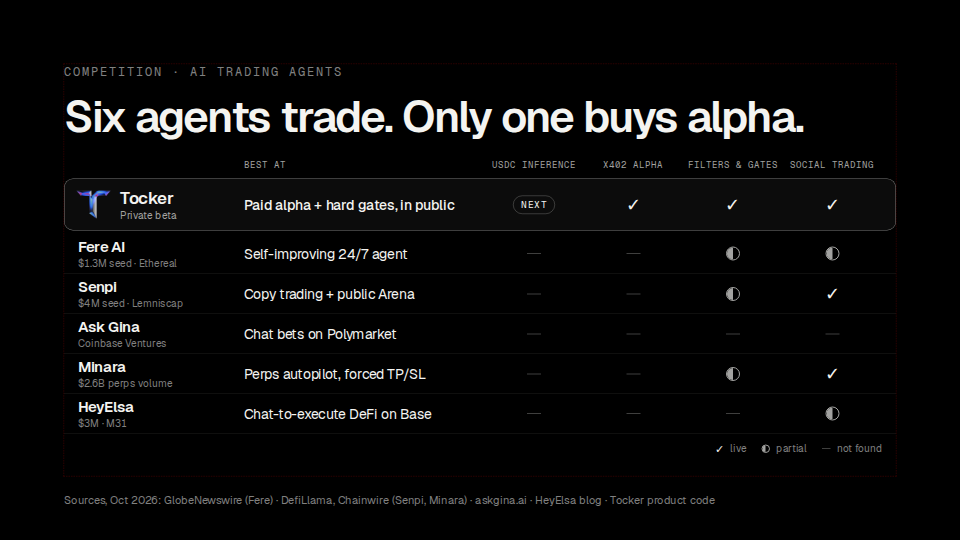
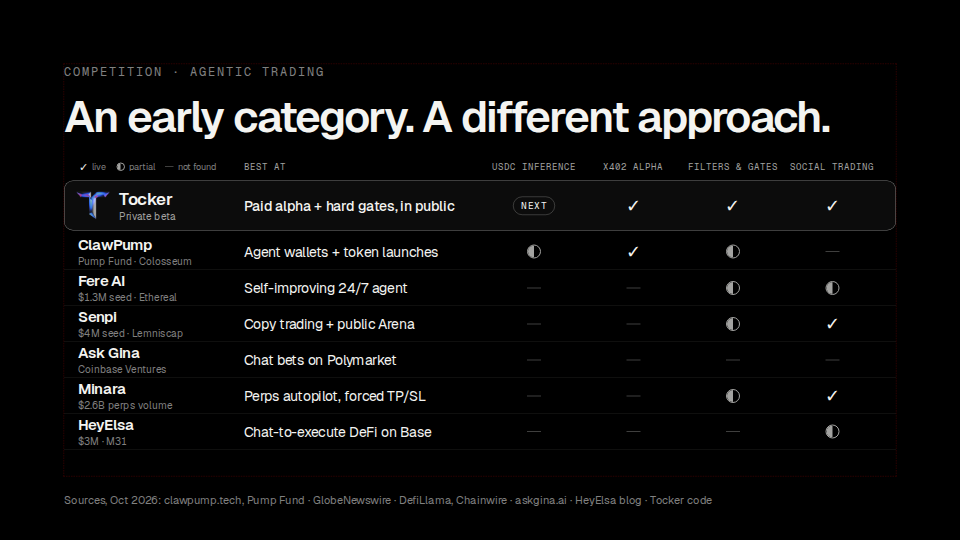
docs(pitch): competition slide adds ClawPump, reframed as an early category
Headline is now 'An early category. A different approach.' ClawPump's
agents can call paid x402 APIs, so 'Only one buys alpha' no longer held.
Research note 25 records ClawPump's cells and sources; speaker note and
Q&A updated.

Claude-Session: https://claude.ai/code/session_01C63X7bmiYFRUvieQLSha7b

diff --git a/docs/pitch/deck/build_competition.py b/docs/pitch/deck/build_competition.py
@@ -1,17 +1,18 @@
-"""Tocker competition slide: clean table with a 'Best at' column.
-Run: python3 -I gen.py  ->  refine/design/tbl7.html
+"""Tocker competition slide: early category, strong players, a different approach.
+Run: python3 -I gen.py  ->  refine/design/tbl8.html
 All copy and data live in DATA. Marks: Y live, P partial, N next, - not found.
 Source of truth for cells and 'Best at': /home/user/tocker/docs/pitch/research/22-matrix-verified.md
+(ClawPump: research/25-clawpump.md)
 """
 import html
 import sys
 
 OUT = sys.argv[1] if len(sys.argv) > 1 else \
-    "/tmp/claude-0/-home-user-tocker/2b3bef34-45cf-5fd0-a239-6cda5647963e/scratchpad/refine/design/tbl7.html"
+    "/tmp/claude-0/-home-user-tocker/2b3bef34-45cf-5fd0-a239-6cda5647963e/scratchpad/refine/design/tbl8.html"
 
 DATA = {
-    "eyebrow": "Competition · AI trading agents",
-    "headline": "Six agents trade. Only one buys alpha.",
+    "eyebrow": "Competition · Agentic trading",
+    "headline": "An early category. A different approach.",
     "best_title": "Best at",
     # the founder's four, in his order
     "cols": [
@@ -24,6 +25,9 @@ DATA = {
         {"name": "Tocker", "logo": True, "fact": "Private beta",
          "best": "Paid alpha + hard gates, in public",
          "usdc": "N", "x402": "Y", "gates": "Y", "social": "Y"},
+        {"name": "ClawPump", "fact": "Pump Fund · Colosseum",
+         "best": "Agent wallets + token launches",
+         "usdc": "P", "x402": "Y", "gates": "P", "social": "-"},
         {"name": "Fere AI", "fact": "$1.3M seed · Ethereal",
          "best": "Self-improving 24/7 agent",
          "usdc": "-", "x402": "-", "gates": "P", "social": "P"},
@@ -41,12 +45,12 @@ DATA = {
          "usdc": "-", "x402": "-", "gates": "-", "social": "P"},
     ],
     "legend": [("Y", "live"), ("P", "partial"), ("-", "not found")],
-    "foot": ("Sources, Oct 2026: GlobeNewswire (Fere) · DefiLlama, Chainwire (Senpi, Minara) · "
-             "askgina.ai · HeyElsa blog · Tocker product code"),
-    "note": ("These are the agents closest to us, and each is genuinely good at something: Senpi at copy "
-             "trading, Minara at disciplined perps, Fere at always-on trading. None buys alpha per call, "
-             "screens every token in code, and trades in public. That combination is Tocker. "
-             "USDC inference is next."),
+    "foot": ("Sources, Oct 2026: clawpump.tech, Pump Fund · GlobeNewswire · DefiLlama, Chainwire · "
+             "askgina.ai · HeyElsa blog · Tocker code"),
+    "note": ("Agentic trading is a brand-new category: a handful of seed-stage teams, each genuinely good at "
+             "one thing. ClawPump at agent wallets and launches, Senpi at copy trading, Minara at disciplined perps. "
+             "Our approach is different: one agent that buys alpha per call, screens every token in code, and "
+             "trades in public."),
 }
 
 # ---------- design tokens ----------
@@ -65,9 +69,9 @@ MW = (INNER - W["name"] - W["best"]) // 4      # four mark columns
 W["name"] += INNER - W["name"] - W["best"] - 4 * MW
 
 HEAD_H = 40
-ROW_H = 80
-TOCK_H = 104
-LOGO_H = 58
+ROW_H = 72
+TOCK_H = 100
+LOGO_H = 56
 
 
 def esc(t):
@@ -135,14 +139,14 @@ def head_p(t, align="left"):
 def legend():
     items = ""
     for k, t in DATA["legend"]:
-        items += (f'<div style="display:flex;flex-direction:row;align-items:center;gap:10px">'
+        items += (f'<div style="display:flex;flex-direction:row;align-items:center;gap:6px">'
                   f'<div style="width:22px;display:flex;justify-content:center">{mark(k, 0.6)}</div>'
-                  f'<p style="font-size:20px;line-height:24px;color:{DIM};white-space:nowrap">{esc(t)}</p></div>')
-    return f'<div style="display:flex;flex-direction:row;align-items:center;gap:28px;padding:0 {PADX}px">{items}</div>'
+                  f'<p style="font-size:18px;line-height:24px;color:{DIM};white-space:nowrap">{esc(t)}</p></div>')
+    return f'<div style="display:flex;flex-direction:row;align-items:center;gap:18px">{items}</div>'
 
 
 def header():
-    cells = f'<div style="width:{W["name"]}px;flex:none"></div>'
+    cells = f'<div style="width:{W["name"]}px;flex:none;display:flex;align-items:center;height:24px">{legend()}</div>'
     cells += f'<div style="width:{W["best"]}px;flex:none">{head_p(DATA["best_title"])}</div>'
     for c in DATA["cols"]:
         cells += (f'<div style="width:{MW}px;flex:none;display:flex;justify-content:center">'
@@ -154,8 +158,7 @@ def header():
 def build():
     table = (f'<div style="display:flex;flex-direction:column">{header()}'
              + "".join(row_html(r, i) for i, r in enumerate(DATA["rows"])) + '</div>')
-    body = (f'<div style="display:flex;flex-direction:column;gap:18px;margin-top:10px">{table}'
-            f'<div style="display:flex;flex-direction:row;justify-content:flex-end">{legend()}</div></div>')
+    body = f'<div style="display:flex;flex-direction:column;margin-top:14px">{table}</div>'
     s = (
         f'<section id="competition" data-transition="fade" style="background:#000000;color:{FG};{SANS};padding:128px 128px 160px;display:flex;flex-direction:column;gap:28px">\n'
         f'<p style="{MONO};font-size:24px;letter-spacing:4px;text-transform:uppercase;color:{DIM}">{esc(DATA["eyebrow"])}</p>\n'

diff --git a/docs/pitch/pitch-3min.md b/docs/pitch/pitch-3min.md
@@ -1,7 +1,7 @@
 # Tocker — 3-minute pitch (short deck, v5)
 
 ~483 words, about 3:05 at 155 wpm. Sam is an illustrative composite, not a real user. [pause] marks a beat.
-Reviewed over four rounds by VC-partner, design and code-level fact-check critics (Oct 7, 2026). Competition: clean table vs Fere AI, Senpi, Ask Gina, Minara, HeyElsa ('Six agents trade. Only one buys alpha.') with a 'Best at' column per rival; cells from research/22. Alternative angles in docs/pitch/deck/competition-angles/.
+Reviewed over four rounds by VC-partner, design and code-level fact-check critics (Oct 7, 2026). Competition: 'An early category. A different approach.' Clean table vs ClawPump, Fere AI, Senpi, Ask Gina, Minara, HeyElsa with a 'Best at' column per rival; cells from research/22 and research/25 (ClawPump). Alternative angles in docs/pitch/deck/competition-angles/.
 
 ## cover
 Three a.m. A trader, call her Sam, sees a new token trending. She buys. Minutes later, it's worth nothing. The wallets that bought first? Insiders. [pause] Sam isn't dumb. She's outgunned. I'm Rami, and this is Tocker: the infrastructure for agentic trading.
@@ -22,7 +22,7 @@ Can AI even trade? Last October, six frontier models traded real money; four los
 Traders already pay. In 2025, Solana traders paid one point seven billion dollars in fees, nine hundred forty million of it to bots at one percent a trade. That's our lane. We plan to charge zero point two percent: twenty cents on a hundred dollars.
 
 ## competition
-These are the agents closest to us, and each is genuinely good at something: Senpi at copy trading, Minara at disciplined perps, Fere at always-on trading. None buys alpha per call, screens every token in code, and trades in public. That combination is Tocker. USDC inference is next.
+Agentic trading is a brand-new category: a handful of seed-stage teams, each genuinely good at one thing. ClawPump at agent wallets and launches, Senpi at copy trading, Minara at disciplined perps. Our approach is different: one agent that buys alpha per call, screens every token in code, and trades in public.
 
 ## gtm
 Every agent trades in public, so every trade markets itself. Each post shows the fill and its entry score, never the strategy. Followers launch their own; next, creators earn a fee share. Today that's memecoins, five billion dollars a week on Solana at the August peak. Next Polymarket, then tokenized stocks.
@@ -50,7 +50,7 @@ Tocker is in private beta on Solana and Base. [pause] Back to Sam. Same token. S
 - $5.2B Solana memecoins in a week (to 26 Aug 2026): Blockworks — research/18
 - $10.8B Polymarket, June 2026: Portals — research/13
 - $5.8B Solana tokenized-stock volume, Q2 2026: SolanaCompass — research/14
-- Competition facts and placements — research/16, research/17
+- Competition facts and placements — research/16, research/17, research/22; ClawPump — research/25
 
 ## Likely Q&A
 1. **Traction?** Honest answer: private beta, agents start on paper. Bring real numbers (beta agents, paper/live fills, % of candidate buys vetoed by gates).
@@ -60,3 +60,4 @@ Tocker is in private beta on Solana and Base. [pause] Back to Sam. Same token. S
 5. **What stops Nansen or GMGN adding gates?** Data is a commodity we buy from everyone (including Nansen); enforced gates plus a public, score-stamped record with private strategies is the loop.
 6. **BlockRun conflict?** Disclose the founder's BlockRun role; any inference routing through it is at provider cost, and the user can always bring their own key.
 7. **Bankr already pays x402 and sells USDC inference.** True, and we credit it: Bankr is wallet rails you command in chat. Tocker is the strategy agent on top, with gates that can veto a buy and a public fill record.
+8. **ClawPump claims 14,000+ agents and has x402 too.** Credit it: it's the best launchpad for agents that earn, with wallets, 132 tools and gasless pump.fun launches. Tocker is the agent that trades for a person: paid alpha per call, gates that veto a buy, and a public record. Different job, same rails.

diff --git a/docs/pitch/research/25-clawpump.md b/docs/pitch/research/25-clawpump.md
@@ -1,0 +1,40 @@
+# 25 · ClawPump (added to the competition slide, Oct 8 2026)
+
+**What it is.** Its own site calls it the "financial layer for autonomous AI agents on Solana".
+- Agents get self-custody wallets and 104–132 MCP tools (the count differs by page). The tools cover swaps, perps, DeFi yield, market intel and payments.
+- Agents can launch tokens on pump.fun without paying gas. ClawPump is the fee recipient and passes most creator fees back to the agent: 75% per the clawpump.tech docs, 65% on older listings.
+- Agents run 24/7 on its infrastructure. Its pitch is "Where agents become agentic companies".
+
+**Cells on the slide (marks as of Oct 2026)**
+
+| Column | Mark | Evidence |
+|---|---|---|
+| USDC inference | ◐ partial | Docs: built-in models (Llama, DeepSeek, Claude, GPT, Kimi) billed via **platform credits** at a 30% markup on inference; BYO OpenAI/Anthropic also supported. I found no source saying the agent pays per call in USDC. |
+| x402 alpha | ✓ live | Docs: "Discover Pay.sh / x402 providers, approve a spend cap, and let agents call paid APIs in USDC." It also *sells* x402 market-intel calls. |
+| Filters & gates | ◐ partial | No built-in rug gate found. A community "Meme Token Analyzer" skill does rug detection, and a third-party "Gatekeeper" skill runs a 12-check screen. Both are opt-in, not enforced before a buy. |
+| Social trading | — not found | "Social skills" means agents post. I found no public trade feed, follow or copy feature, and no leaderboard. |
+| Autonomous 24/7 | ✓ | "Agents run 24/7 on our infrastructure." |
+
+**Best at.** Agent wallets + token launches: it is the agent-economy launchpad on Solana.
+
+**Backing.**
+- Pump Fund invested $250K as the 5th winner of Pump.fun's $3M Build in Public hackathon.
+- It is in Colosseum's portfolio (Cohort 5) and was a Colosseum Frontier hackathon winner.
+- Its site also cites the Solana Incubator.
+
+**Traction (company-reported, unaudited, figures conflict).**
+- Over $10M on launch day; over $55M and 1,700 agents after three weeks.
+- Later $170M volume, 14,000 agents and $2M+ revenue (El Economista); $180M and 17,500 agents (Ecosistema Startup).
+- The slide shows backers, not volume, because the volume figures are unverified and inconsistent.
+
+**Why it matters for the narrative.** ClawPump is the strongest proof that the category is real and early. It is infrastructure for agents to *earn* (launch tokens, collect fees). Tocker is a strategy agent that *trades for a person*, with paid alpha, enforced gates and a public record. Including it means the old headline "Only one buys alpha" is no longer true, so the headline is now "An early category. A different approach."
+
+**Sources (fetched via search, Oct 8 2026)**
+- clawpump.tech homepage, /docs, /developers, /analytics
+- Pump Spotlight on X (Build in Public, 5th $250K investment): https://x.com/pumpspotlight/status/2033637904065388863
+- SolanaCompass, Colosseum Frontier 2026 winners: https://solanacompass.com/news/colosseum-announces-26-winners-of-the-solana-frontier-hackathon-the-largest-crypto-hackathon-ever
+- El Economista ($170M, 14,000 agents): https://eleconomista.com.ar/finanzas/clawpump-nueva-economia-agentes-plataforma-solana-ya-proceso-us-170-millones-n98580
+- Ecosistema Startup ($180M, 17,500 agents): https://ecosistemastartup.com/clawpump-la-startup-que-mueve-us180m-con-agentes-ia/
+- Rankia (launch-day and three-week figures): https://www.rankia.mx/blog/blockchain-latinoamerica/7375971-hackathon-produccion-stack-clawpump-que-atrajo-mirada-pump-fun
+- Gatekeeper skill (third-party): https://github.com/trelnar/clawpump-products
+- Note: clawpump.net and clawpumpsol.com are separate sites with different fee claims. Only clawpump.tech is linked from @clawpumptech.
